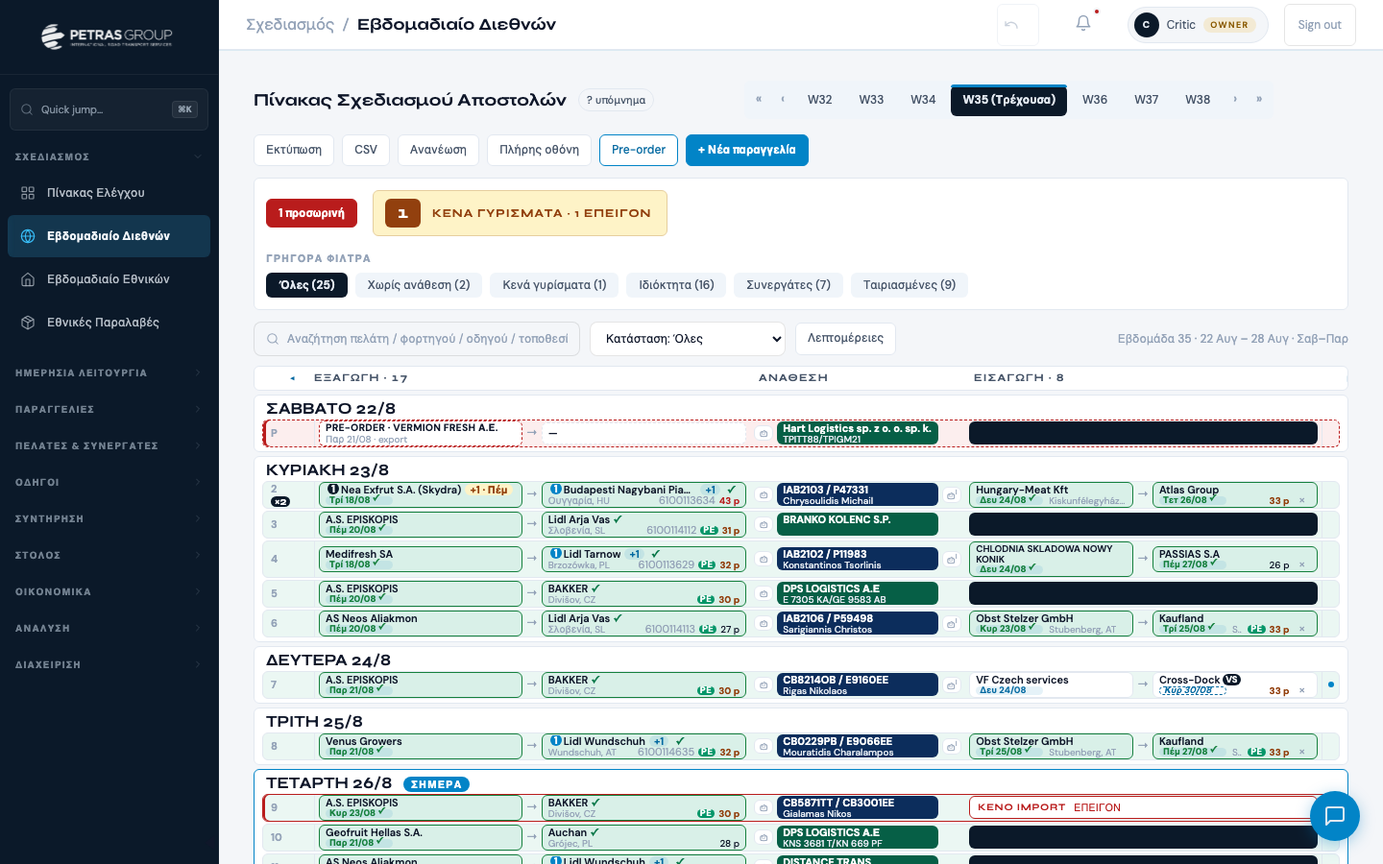
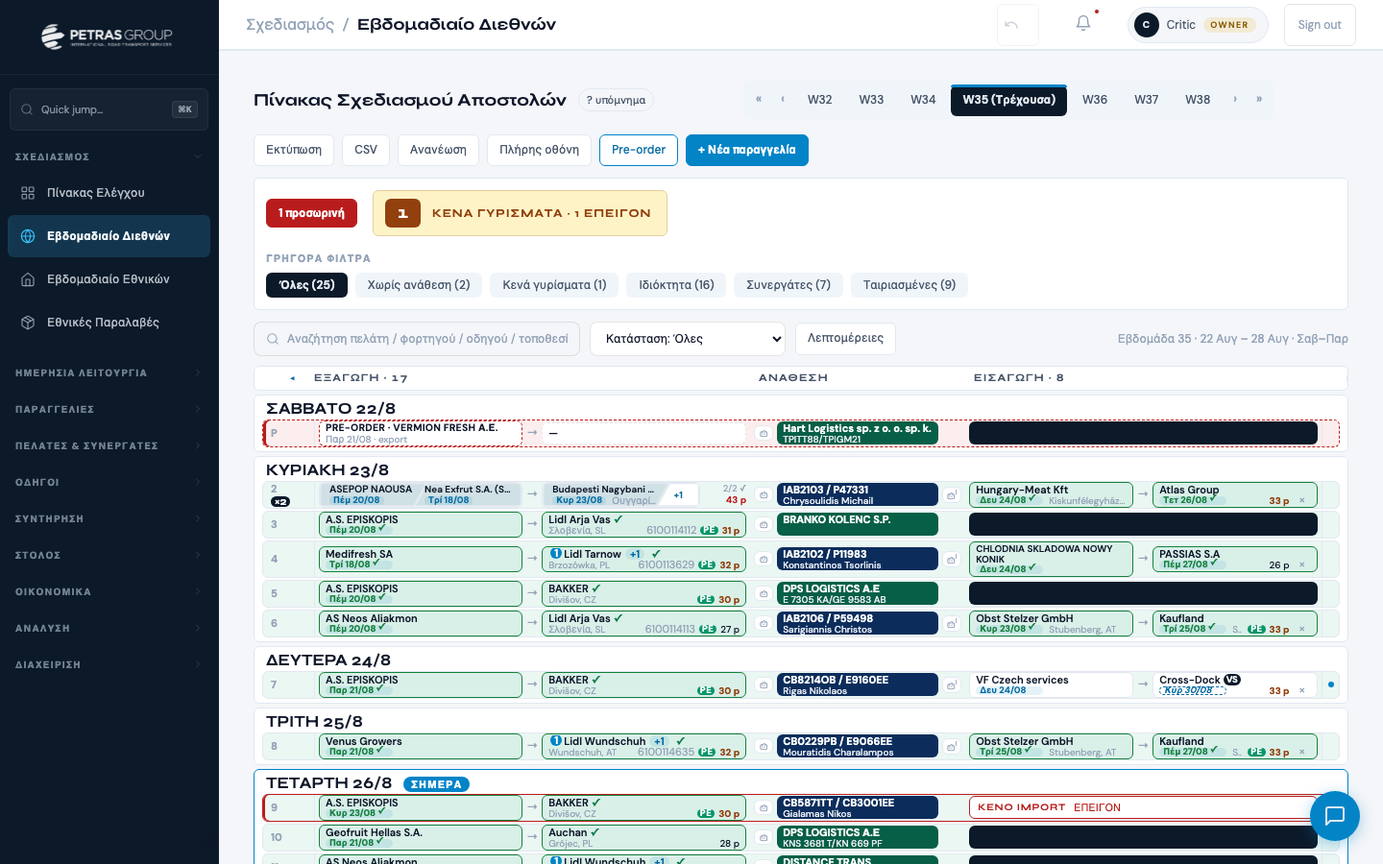
weekly_intl: groupage με πλακίδια ξανά, «σουλουπωμένα» στο κοινό πλέγμα (owner 28/9)
«Δεν θέλω να χαθεί το παλιό φορμάτ του groupage» — GROUP_TILES μένει ON,
όλες οι ενέργειες τμήματος ζωντανές (αφαίρεση μέλους, σύρσιμο ταιριασμένης
ομάδας, αναδιάταξη). Αλλαγές:
- style.css: αφαιρέθηκαν τα ελάχιστα πλάτη .wk3-tiled και το ξεχωριστό
  grid-template της γραμμής (:has) — το πλακάτ ζει στο ίδιο κελί/πλάτος.
- Τμήμα 25px, γράμματα παραλλαγής A (11/12, 10/11, πλακίδια 9.5), όνομα
  χωρίς αναδίπλωση («…» + title), σύνολα στενά («2 στ.» / «N p» κάτω δεξιά).
- _wi2FitSegs: όσα τμήματα δεν χωρούν (<90px) → τμήμα «+N»· κλικ ανοίγει την
  ομάδα σε όλο το μέγεθος (και τα κρυμμένα με τις ενέργειές τους), «−» κλείνει.
- Η απλή κάρτα ομάδας (config off) και ό,τι έγραψα γι' αυτήν αποσύρθηκαν.
Rig: 7 τύποι γραμμής, ίδιο x ανά στήλη σε 1920/1440/1280, ×N 29px· +N ανοίγει
(29→54px) και κλείνει· δεξί κλικ σε κρυμμένο μέλος → «Ακύρωση groupage»·
σύρσιμο → PATCH Group ID με νέα σειρά· αφαίρεση → PATCH Group ID "".

diff --git a/modules/weekly_intl.js b/modules/weekly_intl.js
@@ -77,6 +77,7 @@ function _wiApplyFilter() {
   // re-run it now that some may be visible again, or they would show every
   // stop plus «+N» and get cut mid-name by the line's ellipsis.
   _wi2FitStops();
+  _wi2FitSegs();
 }
 // Quick filters of the v2 band. «Χωρίς ανάθεση» = neither own truck nor partner
 // (DECISION_LOG 2/9). «Κενά» = own round trip without import — a partner row is
@@ -1327,27 +1328,22 @@ function _wiImpRowHTML(row,impNo){
   // Draggable=true (item 2): GI groups reorder the same way GRP groups do
   // (_wiSegDrop/_wiSaveSegOrder generalized on row.type — see their comments).
   const segOn=_wiSegOn()&&row.orderIds.length>1;
-  const members=row.orderIds.length>1?_wiGrpOrder(row.orderIds.map(id=>data.imports.find(r=>r.id===id)).filter(Boolean),'Loading DateTime'):null;
-  // Flag off (28/9): every member in ONE card per side, like a multi-stop order.
-  const iG=(!segOn&&members&&members.length>1)?members:null;
-  const iGL=iG?iG.map(e=>_wiGrpPt(e,'L')):null, iGD=iG?iG.map(e=>_wiGrpPt(e,'D')):null;
-  const gFrom=iG?iGL.map(x=>x.n).join(', '):fromStr, gTo=iG?iGD.map(x=>x.n).join(', '):toStr;
+  const members=segOn?_wiGrpOrder(row.orderIds.map(id=>data.imports.find(r=>r.id===id)).filter(Boolean),'Loading DateTime'):null;
 
-  const lo=_wi2Loc(gFrom,'Φόρτωση',iG?iGL:f._stopsL);
-  const lF=iG?_wiGrpFirst(iG,'Loading DateTime'):imp, lIso=lF.fields['Loading DateTime']||'';
+  const lo=_wi2Loc(fromStr,'Φόρτωση',f._stopsL);
+  const lIso=f['Loading DateTime']||'';
   let loadCard=segOn
     ? _wiSegPillWrap(row.id,members,'load',true,true)
-    : _wi2Card({cls:stR.loaded?'ok':'', date:_wi2Date(lF.id,'Loading DateTime',lIso,lIso?_wk3D(_wiFmt(lIso)):'—',stR.loaded?' done':'','Ημ. φόρτωσης'+(stR.loaded?' — φορτώθηκε ✓':'')), name:lo.name, sub:lo.sub, extra:_wk3MoreStops(gFrom,iG?iGL:f._stopsL,'load')});
-  const right=`<span class="wi2-flags">${_wiBadges(f)}</span>${iG?_wi2PalGroup(iG):_wi2Pal(f)}${f['Reference']?`<span class="wi2-ref" title="Κωδικός αναφοράς">${escapeHtml(String(f['Reference']))}</span>`:''}`;
+    : _wi2Card({cls:stR.loaded?'ok':'', date:_wi2Date(imp.id,'Loading DateTime',lIso,lIso?_wk3D(_wiFmt(lIso)):'—',stR.loaded?' done':'','Ημ. φόρτωσης'+(stR.loaded?' — φορτώθηκε ✓':'')), name:lo.name, sub:lo.sub, extra:_wk3MoreStops(fromStr,f._stopsL,'load')});
+  const right=`<span class="wi2-flags">${_wiBadges(f)}</span>${_wi2Pal(f)}${f['Reference']?`<span class="wi2-ref" title="Κωδικός αναφοράς">${escapeHtml(String(f['Reference']))}</span>`:''}`;
   let delCard;
   if(segOn){
     delCard=_wiSegPillWrap(row.id,members,'del',true,true,_wiSegTotalsHTML(members));
   } else if(impVS2){ const v=_wk3VsCd(f,'imp');
     delCard=_wi2Card({cls:stR.late?'late':stR.delivered?'ok':'', date:_wi2Date(imp.id,'VS CD Date',v.iso,v.iso?_wk3D(_wiFmt(v.iso+'T12:00:00')):'—',(stR.delivered?' done':'')+(stR.late?' late':'')+(v.est?' estd':''),v.est?'Εκτίμηση άφιξης CD (Delivery−1) — κλικ για πραγματική':'Ημ. άφιξης στο Cross-Dock'), name:'<span class="wi2-nw">Cross-Dock <span class="wk3-vsb">VS</span></span>', sub:'Βέροια, GR', right});
   } else {
-    const dF=iG?_wiGrpFirst(iG,'Delivery DateTime'):imp;
-    const de=_wi2Loc(gTo,'Παράδοση',iG?iGD:f._stopsD); const dIso=dF.fields['Delivery DateTime']||'';
-    delCard=_wi2Card({cls:stR.late?'late':stR.delivered?'ok':'', date:_wi2Date(dF.id,'Delivery DateTime',dIso,dIso?_wk3D(_wiFmt(dIso)):'—',(stR.delivered?' done':'')+(stR.late?' late':''),'Ημ. παράδοσης'+(stR.delivered?' — παραδόθηκε ✓':'')+(stR.late?' — ΚΑΘΥΣΤΕΡΗΣΕ':'')), name:de.name+(stR.late?'<span class="wi2-late" title="Καθυστέρησε (Delivery Performance)">! καθυστέρηση</span>':''), sub:de.sub, extra:_wk3MoreStops(gTo,iG?iGD:f._stopsD,'del'), right});
+    const de=_wi2Loc(toStr,'Παράδοση',f._stopsD); const dIso=f['Delivery DateTime']||'';
+    delCard=_wi2Card({cls:stR.late?'late':stR.delivered?'ok':'', date:_wi2Date(imp.id,'Delivery DateTime',dIso,dIso?_wk3D(_wiFmt(dIso)):'—',(stR.delivered?' done':'')+(stR.late?' late':''),'Ημ. παράδοσης'+(stR.delivered?' — παραδόθηκε ✓':'')+(stR.late?' — ΚΑΘΥΣΤΕΡΗΣΕ':'')), name:de.name+(stR.late?'<span class="wi2-late" title="Καθυστέρησε (Delivery Performance)">! καθυστέρηση</span>':''), sub:de.sub, extra:_wk3MoreStops(toStr,f._stopsD,'del'), right});
   }
   if(isPre) loadCard=_wiPreLeg(imp);
   // Right feed: VS import → national distribution from Veroia (final destination)
@@ -1360,7 +1356,7 @@ function _wiImpRowHTML(row,impNo){
     draggable="true"
     oncontextmenu="_wiImpCtx(event,${row.id})"
     ondragstart="event.stopPropagation();_wiImpDragStart(event,'${imp.id}')">
-    <div class="wk3-num imp" style="cursor:grab" title="Εισαγωγή I${impNo||''} — σύρε πάνω σε εξαγωγή για ταίριασμα">${isPre?'P':'I'+(impNo||'')}${f['Group ID']?`<span class="wk3-grpb" title="Groupage εισαγωγών · ${escapeHtml(String(f['Group ID']).split('|')[0])}">${members&&members.length>1?'×'+members.length:'G'}</span>`:''}<span class="wi-sync" id="wi-sync-${row.id}"></span></div>
+    <div class="wk3-num imp" style="cursor:grab" title="Εισαγωγή I${impNo||''} — σύρε πάνω σε εξαγωγή για ταίριασμα">${isPre?'P':'I'+(impNo||'')}${f['Group ID']?`<span class="wk3-grpb" title="Groupage εισαγωγών · ${escapeHtml(String(f['Group ID']).split('|')[0])}">${segOn?'×'+members.length:'G'}</span>`:''}<span class="wi-sync" id="wi-sync-${row.id}"></span></div>
     <div class="wk3-feed l" title="Χωρίς εθνικό σκέλος"><span class="wi2-dash">—</span></div>
     <div class="wk3-leg void${leftCls}">${leftInner}</div>
     ${row.hasSplitLegs
@@ -2037,12 +2033,13 @@ function _wi2Balance(){
       // National-leg (feed) cards are single-line: a 2-line clamp there grew
       // the whole row (measured 57px on 27/9) — they keep the visible «…» +
       // the full name in the title instead.
-      if(!fits(e)){ if(!e.closest('.wk3-feed')) e.classList.add('clamp'); e.title=e.innerText.trim(); cut++; return; }
+      if(!fits(e)){ if(!e.closest('.wk3-feed,.wk3-seg')) e.classList.add('clamp'); e.title=e.innerText.trim(); cut++; return; }
     }
     if(e.title) e.removeAttribute('title');
   });
   WINTL._clamped=cut;
   _wi2FitStops();
+  _wi2FitSegs();
 }
 let _wi2BalTimer=null;
 window.addEventListener('resize',()=>{ clearTimeout(_wi2BalTimer); _wi2BalTimer=setTimeout(_wi2Balance,150); });
@@ -2300,34 +2297,48 @@ function _wiSegHTML(o,kind,isImportSide,idx,total,rowId,draggable){
 function _wiSegTotalsHTML(list){
   const n=list.length;
   const delivered=list.filter(o=>_wk3StFlags(o.fields).delivered).length;
-  const stopsTxt=delivered>0?`${delivered}/${n} παραδόθηκαν`:`${n} στάσεις`;
-  return `<div class="wk3-segtotals">${_wi2PalGroup(list)}<span class="wk3-segstops">${stopsTxt}</span></div>`;
+  // Short on the board (28/9: the long «2/2 παραδόθηκαν» ate a tile's width
+  // on the common grid); the full words stay in the title.
+  const stopsTxt=delivered>0?`${delivered}/${n} ✓`:`${n} στ.`;
+  const stopsTitle=delivered>0?`${delivered}/${n} παραδόθηκαν`:`${n} στάσεις`;
+  return `<div class="wk3-segtotals"><span class="wk3-segstops" title="${stopsTitle}">${stopsTxt}</span>${_wi2PalGroup(list)}</div>`;
 }
+// «+N» (owner 28/9): the row keeps ONE line of tiles on the common grid —
+// _wi2FitSegs hides the tiles that do not fit and counts them here; a click
+// opens the whole group in place (all tiles, all their actions), again to close.
 function _wiSegPillWrap(rowId,list,kind,isImportSide,draggable,totalsHTML){
   const segs=list.map((o,idx)=>_wiSegHTML(o,kind,isImportSide,idx,list.length,rowId,draggable)).join('');
-  return `<div class="wk3-segwrap"><div class="wk3-segpill" data-row-id="${rowId}" data-kind="${kind}">${segs}</div>${totalsHTML||''}</div>`;
+  const more=`<div class="wk3-seg wk3-segmore off" data-pos="last" role="button" tabindex="0" title="Όλα τα μέλη της ομάδας" onkeydown="if(event.key==='Enter'){event.preventDefault();this.click()}" onclick="event.stopPropagation();_wi2SegToggle(this)" oncontextmenu="event.stopPropagation()"></div>`;
+  return `<div class="wk3-segwrap"><div class="wk3-segpill" data-row-id="${rowId}" data-kind="${kind}">${segs}${more}</div>${totalsHTML||''}</div>`;
+}
+function _wi2SegToggle(el){
+  const w=el.closest('.wk3-segwrap'); if(!w) return;
+  w.classList.toggle('open'); _wi2FitSegs();
+}
+// One line of tiles per group card: a tile narrower than ~90px shows nothing
+// readable, so the tiles that do not fit collapse into «+N» (the diagonal
+// seams overlap 12px, counted). Open = every tile, wrapped, «−» to close.
+function _wi2FitSegs(){
+  const MIN=90, SEAM=12;
+  document.querySelectorAll('#wi-rows .wk3-segpill').forEach(p=>{
+    if(!p.offsetParent) return;
+    const segs=[...p.querySelectorAll(':scope>.wk3-seg:not(.wk3-segmore)')], more=p.querySelector(':scope>.wk3-segmore');
+    if(!more) return;
+    segs.forEach(x=>x.classList.remove('off'));
+    const open=p.closest('.wk3-segwrap').classList.contains('open');
+    const fit=k=>(p.clientWidth+SEAM*(k-1))/k>=MIN;
+    let show=segs.length;
+    if(!open&&!fit(show)){ show=Math.max(1,segs.length-1); while(show>1&&!fit(show+1)) show--; }
+    const hidden=segs.length-show;
+    segs.forEach((x,i)=>x.classList.toggle('off',i>=show));
+    more.classList.toggle('off',!open&&!hidden);
+    more.textContent=open?'−':'+'+hidden;
+    more.title=open?'Κλείσιμο ομάδας':`${hidden} ακόμη μέλη — κλικ: όλη η ομάδα`;
+    // Tile names never wrap (owner 28/9): the cut one carries its full text.
+    segs.forEach(x=>{ const n=x.querySelector('.wi2-name'); if(n) n.title=n.scrollWidth>n.clientWidth+1?n.innerText.trim():''; });
+  });
 }
 
-// GRP (owner 12/8): a group line shows ONE point per MEMBER (① = 1st member…),
-// not the comma-parsing of the first member's summary — that showed San
-// Lucar's city as a fake «② destination». Synthetic {n,dt} arrays, so the
-// multi-stop fit (_wi2Loc → _wk3LocHTML: «① A ② B» / «+N», other-day chip,
-// hover/click list) renders a group exactly like a multi-stop order — one
-// card per side, on the common grid (owner 28/9). Shared by export groups
-// (GRP-), standalone import groups (GI-) and a GI- group matched into an
-// export row. Fallback WITHOUT escapeHtml — _wk3LocHTML escapes on its own.
-function _wiGrpPt(e,side){
-  const key=side==='L'?'_stopsL':'_stopsD', sumKey=side==='L'?'Loading Summary':'Delivery Summary';
-  return { n:(e.fields[key]?.[0]?.n)||String(e.fields[sumKey]||e.fields['Client Name']||'—').split(',').slice(0,2).join(',').replace(/^['"\s/]+/,'').replace(/['"\s/]+$/,'').trim(),
-    dt:e.fields[side==='L'?'Loading DateTime':'Delivery DateTime'] };
-}
-// The member whose date the card shows: the multi-stop list (_wk3Arr) orders
-// ① by date, so the card's date must be the EARLIEST member's — otherwise
-// «① A» sits next to B's date and the orange other-day chip points the
-// wrong way. Its id is also the record a click on that date edits.
-function _wiGrpFirst(recs,field){
-  return recs.reduce((a,b)=>String(b.fields[field]||'~')<String(a.fields[field]||'~')?b:a);
-}
 function _wiRowHTML(row,i){
   const {data,ui}=WINTL;
   const exps   =_wiGrpOrder(row.orderIds.map(id=>data.exports.find(r=>r.id===id)).filter(Boolean));
@@ -2343,8 +2354,15 @@ function _wiRowHTML(row,i){
   const isPre=!isGroup&&isPreorder(pf);
   const fromStr=primary?_wiRaw(pf['Loading Summary']||_wiFlatLocName(pf['Loading Location 1'])||_wiClientName(pf)||'—'):'—';
   const toStr  =primary?_wiRaw(pf['Delivery Summary']||_wiFlatLocName(pf['Unloading Location 1'])||_wiClientName(pf)||'—'):'—';
-  const gL=isGroup?exps.map(e=>_wiGrpPt(e,'L')):null;
-  const gD=isGroup?exps.map(e=>_wiGrpPt(e,'D')):null;
+  // GRP (owner 12/8): η γραμμή δείχνει ΕΝΑ σημείο ανά ΜΕΛΟΣ (①=1ο μέλος κ.ο.κ.),
+  // όχι το comma-parsing του summary του πρώτου — αυτό εμφάνιζε την πόλη του
+  // San Lucar ως ψεύτικο «② προορισμό». Συνθετικά arrays {n,dt} ώστε τα ①②,
+  // η συντομογραφία 3+ και το ίδια-μέρα-δίπλα να δουλέψουν με την υπάρχουσα λογική.
+  // Fallback ΧΩΡΙΣ escapeHtml — το _wk3LocHTML κάνει το δικό του escape.
+  const _gm1=(e,key,sumKey)=>({ n:(e.fields[key]?.[0]?.n)||String(e.fields[sumKey]||e.fields['Client Name']||'—').split(',').slice(0,2).join(',').replace(/^['"\s/]+/,'').replace(/['"\s/]+$/,'').trim(),
+    dt:e.fields[sumKey==='Loading Summary'?'Loading DateTime':'Delivery DateTime'] });
+  const gL=isGroup?exps.map(e=>_gm1(e,'_stopsL','Loading Summary')):null;
+  const gD=isGroup?exps.map(e=>_gm1(e,'_stopsD','Delivery Summary')):null;
   const gLs=gL?gL.map(x=>x.n).join(', '):'';
   const gDs=gD?gD.map(x=>x.n).join(', '):'';
   const refs=isGroup?exps.map(e=>e.fields['Reference']).filter(Boolean).join(' · '):(pf['Reference']||'');
@@ -2399,8 +2417,7 @@ function _wiRowHTML(row,i){
     loadCard=_wi2Card({cls:stF.loaded?'ok':'', date:_wi2Date(pid,'VS CD Date',v.iso,v.iso?_wk3D(_wiFmt(v.iso+'T12:00:00')):'—',(stF.loaded?' done':'')+(v.est?' estd':''),v.est?'Εκτίμηση (Loading+1) — κλικ για πραγματική ημερομηνία CD':'Ημ. φόρτωσης από Cross-Dock'), name:'<span class="wi2-nw">Cross-Dock <span class="wk3-vsb">VS</span></span>', sub:'Βέροια, GR'});
   } else {
     const lo=_wi2Loc(isGroup?gLs:fromStr,'Φόρτωση',isGroup?gL:pf._stopsL);
-    const gF=isGroup?_wiGrpFirst(exps,'Loading DateTime'):primary, gIso=isGroup?(gF.fields['Loading DateTime']||''):loadIso;
-    loadCard=_wi2Card({cls:stF.loaded?'ok':'', date:_wi2Date(isGroup?gF.id:pid,'Loading DateTime',gIso,gIso?_wk3D(_wiFmt(gIso)):'—',stF.loaded?' done':'','Ημερομηνία φόρτωσης'+(stF.loaded?' — φορτώθηκε ✓':'')), name:lo.name, sub:lo.sub, extra:_wk3MoreStops(isGroup?gLs:fromStr,isGroup?gL:pf._stopsL,'load')});
+    loadCard=_wi2Card({cls:stF.loaded?'ok':'', date:_wi2Date(pid,'Loading DateTime',loadIso,loadIso?_wk3D(_wiFmt(loadIso)):'—',stF.loaded?' done':'','Ημερομηνία φόρτωσης'+(stF.loaded?' — φορτώθηκε ✓':'')), name:lo.name, sub:lo.sub, extra:_wk3MoreStops(isGroup?gLs:fromStr,isGroup?gL:pf._stopsL,'load')});
   }
   const de=_wi2Loc(isGroup?gDs:toStr,'Παράδοση',isGroup?gD:pf._stopsD);
   const members=(isGroup&&ui.openGroup===row.id)?exps.map((m,k)=>{const mf=m.fields;
@@ -2436,9 +2453,7 @@ function _wiRowHTML(row,i){
   // its orderId, not re-derived) so its orderIds is the authoritative member
   // list — gated behind _wiSegOn() so a flag-off board never does this lookup
   // (byte parity with the pre-existing single-card path below).
-  // Looked up with the tiles flag OFF too (28/9): the single-card path below
-  // needs the members for its «① A ② B» names and group pallets.
-  const impGroupRow=row.importId?WINTL.rows.find(r=>r.type==='import'&&r.orderId===row.importId):null;
+  const impGroupRow=(_wiSegOn()&&row.importId)?WINTL.rows.find(r=>r.type==='import'&&r.orderId===row.importId):null;
   // Item 1 (owner 8/9): ordered by _wiGrpOrder (GI- suffix, else Loading
   // DateTime) — NOT impGroupRow.orderIds' raw insertion order — so a drag
   // reorder done from EITHER this pill or the standalone GI- row (they write
@@ -2446,7 +2461,7 @@ function _wiRowHTML(row,i){
   const impMembers=(impGroupRow&&impGroupRow.orderIds&&impGroupRow.orderIds.length>1)
     ?_wiGrpOrder(impGroupRow.orderIds.map(id=>data.imports.find(r=>r.id===id)).filter(Boolean),'Loading DateTime'):null;
   let impInner;
-  if(_wiSegOn()&&impMembers&&impMembers.length>1){
+  if(impMembers&&impMembers.length>1){
     // Reuse the SAME segment renderer the standalone GI- row uses, with
     // impGroupRow.id (NOT this export row's id) as the segment rowId — click/
     // right-click/assign-panel/drag-drop (_wiSegCtx, _wiCancelGroupMember,
@@ -2486,27 +2501,22 @@ function _wiRowHTML(row,i){
     impInner=`${gLoad}<span class="wi2-arrow">→</span>${gDel}`;
   } else if(imp){
     const f2=imp.fields;
-    const iG=(impMembers&&impMembers.length>1)?impMembers:null;
-    const iGL=iG?iG.map(e=>_wiGrpPt(e,'L')):null, iGD=iG?iG.map(e=>_wiGrpPt(e,'D')):null;
-    const iLs=iG?iGL.map(x=>x.n).join(', '):(f2['Loading Summary']||_wiFlatLocName(f2['Loading Location 1'])||_wiClientName(f2)||'—');
-    const il=_wi2Loc(iLs,'Φόρτωση',iG?iGL:f2._stopsL);
-    const iLF=iG?_wiGrpFirst(iG,'Loading DateTime'):imp, ilIso=iLF.fields['Loading DateTime']||'';
-    const iload=_wi2Card({cls:stI.loaded?'ok':'', date:_wi2Date(iLF.id,'Loading DateTime',ilIso,ilIso?_wk3D(_wiFmt(ilIso)):'—',stI.loaded?' done':'','Ημ. φόρτωσης εισαγωγής'+(stI.loaded?' — φορτώθηκε ✓':'')), name:il.name, sub:il.sub, extra:_wk3MoreStops(iG?iLs:(f2['Loading Summary']||''),iG?iGL:f2._stopsL,'load')});
+    const il=_wi2Loc(f2['Loading Summary']||_wiFlatLocName(f2['Loading Location 1'])||_wiClientName(f2)||'—','Φόρτωση',f2._stopsL);
+    const ilIso=f2['Loading DateTime']||'';
+    const iload=_wi2Card({cls:stI.loaded?'ok':'', date:_wi2Date(imp.id,'Loading DateTime',ilIso,ilIso?_wk3D(_wiFmt(ilIso)):'—',stI.loaded?' done':'','Ημ. φόρτωσης εισαγωγής'+(stI.loaded?' — φορτώθηκε ✓':'')), name:il.name, sub:il.sub, extra:_wk3MoreStops(f2['Loading Summary']||'',f2._stopsL,'load')});
     // ΙΔΙΑ ΘΕΣΗ ΜΕ ΤΗΝ ΕΞΑΓΩΓΗ (owner 3/9): οι παλέτες και τα σήματα έμπαιναν
     // εδώ στη ΔΕΥΤΕΡΗ ΣΕΙΡΑ, κάτω από το όνομα, ενώ στην εξαγωγή μπαίνουν στη
     // δεξιά θυρίδα — δύο ιδιώματα για το ίδιο πράγμα στην ίδια γραμμή. Και
     // επειδή μοιράζονταν τη σειρά με την πόλη, η πόλη στριμωχνόταν πίσω από
     // «PE · 33 p». Τώρα: δεξιά οι παλέτες, η δεύτερη σειρά μένει της πόλης.
-    const iright=`<span class="wi2-flags">${_wiBadges(f2)}</span>${iG?_wi2PalGroup(iG):_wi2Pal(f2)}<button class="wk3-unm" title="Αφαίρεση ταιριάσματος${iG?' (όλη η ομάδα)':''}" onclick="event.stopPropagation();${iG?`_wiRemoveImport(${row.id})`:`_wiUnmatch('${imp.id}')`}">×</button>`;
+    const iright=`<span class="wi2-flags">${_wiBadges(f2)}</span>${_wi2Pal(f2)}<button class="wk3-unm" title="Αφαίρεση ταιριάσματος" onclick="event.stopPropagation();_wiUnmatch('${imp.id}')">×</button>`;
     let idel;
     if(impVS){ const v=_wk3VsCd(f2,'imp');
       // Matched preview is the narrow column: «Cross-Dock VS» on one line, no city (the badge says it)
       idel=_wi2Card({cls:stI.late?'late':stI.delivered?'ok':'', date:_wi2Date(imp.id,'VS CD Date',v.iso,v.iso?_wk3D(_wiFmt(v.iso+'T12:00:00')):'—',(stI.delivered?' done':'')+(stI.late?' late':'')+(v.est?' estd':''),v.est?'Εκτίμηση άφιξης CD (Delivery−1) — κλικ για πραγματική':'Ημ. άφιξης στο Cross-Dock'), name:'<span class="wi2-nw">Cross-Dock <span class="wk3-vsb">VS</span></span>', sub:'', title:'Cross-Dock Βέροια', right:iright});
     } else {
-      const iDs=iG?iGD.map(x=>x.n).join(', '):(f2['Delivery Summary']||_wiFlatLocName(f2['Unloading Location 1'])||_wiClientName(f2)||'—');
-      const iDF=iG?_wiGrpFirst(iG,'Delivery DateTime'):imp;
-      const id2=_wi2Loc(iDs,'Παράδοση',iG?iGD:f2._stopsD); const idIso=iDF.fields['Delivery DateTime']||'';
-      idel=_wi2Card({cls:stI.late?'late':stI.delivered?'ok':'', date:_wi2Date(iDF.id,'Delivery DateTime',idIso,idIso?_wk3D(_wiFmt(idIso)):'—',(stI.delivered?' done':'')+(stI.late?' late':''),'Ημ. παράδοσης εισαγωγής'+(stI.delivered?' — παραδόθηκε ✓':'')+(stI.late?' — ΚΑΘΥΣΤΕΡΗΣΕ':'')), name:id2.name+(stI.late?'<span class="wi2-late">! καθυστέρηση</span>':''), sub:id2.sub, extra:_wk3MoreStops(iG?iDs:(f2['Delivery Summary']||''),iG?iGD:f2._stopsD,'del'), right:iright});
+      const id2=_wi2Loc(f2['Delivery Summary']||_wiFlatLocName(f2['Unloading Location 1'])||_wiClientName(f2)||'—','Παράδοση',f2._stopsD); const idIso=f2['Delivery DateTime']||'';
+      idel=_wi2Card({cls:stI.late?'late':stI.delivered?'ok':'', date:_wi2Date(imp.id,'Delivery DateTime',idIso,idIso?_wk3D(_wiFmt(idIso)):'—',(stI.delivered?' done':'')+(stI.late?' late':''),'Ημ. παράδοσης εισαγωγής'+(stI.delivered?' — παραδόθηκε ✓':'')+(stI.late?' — ΚΑΘΥΣΤΕΡΗΣΕ':'')), name:id2.name+(stI.late?'<span class="wi2-late">! καθυστέρηση</span>':''), sub:id2.sub, extra:_wk3MoreStops(f2['Delivery Summary']||'',f2._stopsD,'del'), right:iright});
     }
     impInner=isPreorder(f2)
       ? _wiPreLeg(imp,`<button class="wk3-unm" title="Αφαίρεση ταιριάσματος" onclick="event.stopPropagation();_wiUnmatch('${imp.id}')">×</button>`)
@@ -5623,6 +5633,7 @@ window._wiSaveLocal = _wiSaveLocal;
 window._wiDelLocal = _wiDelLocal;
 window._wiLmvCtx = _wiLmvCtx;
 window._wiSegCtx = _wiSegCtx;
+window._wi2SegToggle = _wi2SegToggle;   // «+N» tile (inline onclick)
 window._wiCancelGroupMember = _wiCancelGroupMember;
 window._wiSegDragStart = _wiSegDragStart;
 window._wiSegDragOver = _wiSegDragOver;

diff --git a/assets/style.css b/assets/style.css
@@ -7322,8 +7322,8 @@ button.btn-icon:focus-visible { outline:2px solid var(--accent); outline-offset:
 .wk3-segpill{flex:1 1 0;min-width:0;display:flex;border:1px solid var(--border);
   border-radius:var(--radius);overflow:hidden;background:var(--surface-card)}
 .wk3-seg{position:relative;flex:1 1 0;min-width:0;box-sizing:border-box;
-  display:flex;flex-direction:column;justify-content:center;min-height:36px;
-  padding:3px 10px;background:var(--border);--seg-bg:var(--surface-card);cursor:pointer;
+  display:flex;flex-direction:column;justify-content:center;min-height:25px;
+  padding:0 10px;background:var(--border);--seg-bg:var(--surface-card);cursor:pointer;
   isolation:isolate;
   transition:transform var(--duration-fast) var(--ease-out),box-shadow var(--duration-fast) var(--ease-out);}
 /* Διαγώνιο κόψιμο (spec): άκρα στρογγυλά (το κλείνει το overflow:hidden του
@@ -7363,58 +7363,37 @@ button.btn-icon:focus-visible { outline:2px solid var(--accent); outline-offset:
 .wk3-seg.late{--seg-bg:var(--danger-bg)}
 .wk3-seg.dragging{opacity:.4}
 .wk3-seg.dragover{outline:2px dashed var(--accent);outline-offset:-2px}
-.wk3-segtop{display:flex;align-items:center;gap:6px;font-size:11px}
-/* Πυκνότερη γραμματοσειρά ΜΕΣΑ στο τμήμα — οι κοινές .wi2-name/.wi2-sub/.wi2-date
-   (μοιρασμένες με τη μονή κάρτα, 13/11/11px) δεν χωρούν σε τμήμα πλάτους
-   ~100-130px· scope εδώ, όχι στις κοινές κλάσεις, ώστε η μονή κάρτα να μείνει
-   ανέγγιχτη. Νούμερα: spec 2026-09-08 v2 §Segment content. */
-.wk3-seg .wi2-name{font-size:10px;line-height:13px;font-weight:600}
-.wk3-seg .wi2-sub{font-size:9px}
-.wk3-seg .wi2-date{font-size:9px;padding:0 5px;min-width:0;height:16px;line-height:16px;
+.wk3-segtop{display:flex;align-items:center;gap:6px;font-size:10px;height:11px;line-height:11px}
+/* Κλίμακα της μονής κάρτας (owner 28/9, παραλλαγή A: όνομα 11/12, 2η σειρά
+   10/11, πλακίδια 9.5) — ίδια γράμματα σε ομάδα και σε μονή παραγγελία, ώστε
+   η γραμμή να μένει 29px. Το όνομα ΔΕΝ αναδιπλώνεται: «…» + title. */
+.wk3-seg .wi2-name{font-size:11px;line-height:12px;font-weight:600;white-space:nowrap;overflow:hidden;text-overflow:ellipsis}
+.wk3-seg .wi2-sub{font-size:10px}
+.wk3-seg .wi2-date{font-size:9.5px;padding:0 4px;min-width:0;height:auto;line-height:9.5px;
   border-radius:var(--radius-sm);box-sizing:border-box}
-.wk3-segtop .wi2-name{font-size:9px}
-.wk3-segtop .wi2-pal{font-size:9px}
-/* Σύνολα δεξιά της παράδοσης (owner review 8/9 v2 — item γ): σταθερό κουτί
-   ΕΚΤΟΣ του μεριδίου πλάτους του ίδιου του πλακάτ (βλ. .wk3-tiled παρακάτω) —
-   πριν μοιραζόταν flex:1 1 0 με το .wk3-segpill μέσα στο ίδιο .wk3-segwrap και
-   το στρίμωχνε ίσα με το πλάτος των συνόλων. */
-.wk3-segtotals{flex:0 0 64px;width:64px;box-sizing:border-box;display:flex;
-  flex-direction:column;align-items:center;justify-content:center;gap:1px;text-align:center}
-.wk3-segtotals .wi2-pal{font-size:12px;font-weight:700;line-height:1.15}
-.wk3-segstops{font-size:9px;color:var(--text-dim);line-height:1.15;white-space:nowrap}
-/* Πλάτη πλακάτ (owner review 8/9 v2 — item α): η _wi2Balance() του module
-   μοιράζει sL/sR μετρώντας .wi2-name/.wi2-meta ως ΑΜΕΣΑ παιδιά του .wk3-leg —
-   το .wk3-segwrap δεν έχει τέτοια (είναι δύο επίπεδα πιο μέσα), άρα η μέτρηση
-   επιστρέφει 0 και οι σειρές με segments κληρονομούσαν έναν λόγο υπολογισμένο
-   ΑΠΟ ΑΛΛΕΣ (μονές) γραμμές — τυχαίος για ένα πλακάτ με σύνολα δεξιά. Δικό
-   της grid-template ΜΟΝΟ όταν το JS προσθέσει .wk3-tiled (μόνο όταν segOn —
-   άρα ΠΟΤΕ με κλειστή σημαία, βλ. modules/weekly_intl.js). Ειδικότητα 4-5
-   κλάσεων ώστε να νικά το `.wk3.wi2 .wk3-leg` (inline <style> του module,
-   3 κλάσεις) όποια κι αν είναι η σειρά στο DOM. Νούμερα: spec §Widths —
-   238/262 (3+ μέλη, βλ. compact στο _wiSegHTML) · 230/250 (2 μέλη), με +8px
-   κενό +64px σύνολα προστιθέμενα στο δεξί (παράδοση). */
-.wk3.wi2 .wk3-leg.wk3-tiled{grid-template-columns:minmax(238px,1fr) auto minmax(334px,1fr)}
-.wk3.wi2 .wk3-leg.wk3-tiled[data-seg-n="2"]{grid-template-columns:minmax(230px,1fr) auto minmax(322px,1fr)}
-/* Η ΓΡΑΜΜΗ (.wk3-row) είναι ΚΙ ΑΥΤΗ grid (module's own <style>, γρ. 245:
-   `minmax(0,1.1fr)`/`minmax(0,0.9fr)` για τα δύο .wk3-leg) — min 0 σημαίνει
-   ότι ο browser ΔΕΝ φουσκώνει το track για να χωρέσει το παιδί, άρα το πλάτος
-   που μόλις κλειδώσαμε παραπάνω (238-334/230-322) περίσσευε από το πλάτος
-   που της έδινε η σειρά και το `.wk3-leg{overflow:hidden}` το έκοβε σιωπηλά —
-   ΤΑ ΣΥΝΟΛΑ δεξιά της παράδοσης εξαφανίζονταν εντελώς, αόρατο bug που δεν θα
-   φαινόταν παρά μόνο μετρώντας rects (βρέθηκε με Playwright evaluate, όχι με
-   screenshot). Ίδιο 36px/240px/var(--fL)/var(--fR) με το γρ. 245 ΕΠΙΤΗΔΕΣ
-   (var() λύνεται στην τιμή που έχει ΤΩΡΑ η μεταβλητή — αν αλλάξει εκεί, θα
-   αλλάξει και εδώ)· μόνο τα δύο minmax ελάχιστα ανεβαίνουν, και ΜΟΝΟ σε
-   γραμμή που όντως περιέχει .wk3-tiled. ΔΕΝ καλύπτει το media query
-   max-width:1360px (γρ. 443) — άλλη στήλωση, εκτός εύρους της συγκεκριμένης
-   αναθεώρησης (οθόνες ελέγχθηκαν στα 1440px). Το track παρακάτω δίνει το
-   ΠΕΡΙΘΩΡΙΟ (border-box) του ίδιου του .wk3-leg — για να χωρέσουν τα τρία
-   tracks από πάνω (238-334/230-322) πρέπει να προστεθεί ΚΑΙ το gap:4px×2
-   ΚΑΙ το padding:0 4px×2 του .wk3-leg (γρ. 315, wi2 mode) — 8+8=16px, αλλιώς
-   ξανακόβεται σιωπηλά (επαληθεύτηκε με rects, όχι με μάτι — βλ. σχόλιο πιο
-   πάνω): 238+12(βέλος)+334+16=600 (3+ μέλη) · 230+12+322+16=580 (2 μέλη). */
-.wk3.wi2 .wk3-row:has(.wk3-leg.wk3-tiled){grid-template-columns:36px var(--fL) minmax(600px,1.1fr) 240px minmax(600px,0.9fr) var(--fR)}
-.wk3.wi2 .wk3-row:has(.wk3-leg.wk3-tiled[data-seg-n="2"]){grid-template-columns:36px var(--fL) minmax(580px,1.1fr) 240px minmax(580px,0.9fr) var(--fR)}
+.wk3-segtop .wi2-name{font-size:10px}
+.wk3-segtop .wi2-pal{font-size:9.5px}
+.wk3-seg.off{display:none}
+.wk3-segmore{flex:0 0 auto;min-width:44px;align-items:center;font:700 10px 'DM Sans',sans-serif;color:var(--accent-text)}
+.wk3-segmore.off{display:none}
+.wk3-segwrap.open .wk3-segpill{flex-wrap:wrap}
+.wk3-segwrap.open .wk3-seg{flex:1 1 90px}
+/* Σύνολα δεξιά της παράδοσης (owner review 8/9 v2 — item γ): κουτί ΕΚΤΟΣ του
+   πλακάτ, ώστε να μην το στριμώχνει. 28/9: στενό κουτί με το «N p» κάτω δεξιά,
+   στη θέση που έχουν οι παλέτες στη μονή κάρτα, και τις στάσεις από πάνω. */
+.wk3-segtotals{flex:0 0 auto;min-width:40px;box-sizing:border-box;display:flex;
+  flex-direction:column;align-items:flex-end;justify-content:center;gap:1px;text-align:right}
+.wk3-segtotals .wi2-pal{font-size:10px;font-weight:700;line-height:11px}
+.wk3-segstops{font-size:9.5px;color:var(--text-dim);line-height:10px;white-space:nowrap}
+/* ΠΛΑΚΑΤ ΣΤΟ ΚΟΙΝΟ ΠΛΕΓΜΑ (owner 28/9: «να σουλουπωθεί στα νέα δεδομένα»).
+   Μέχρι τις 28/9 ένα .wk3-tiled σκέλος είχε δικά του ελάχιστα πλάτη
+   (238-334px) και η γραμμή του δικό της grid-template (σκέλη 580-600px) — η
+   ανάθεση και η εισαγωγή μιας ομάδας ξεκινούσαν 72-136px δεξιότερα από κάθε
+   άλλη γραμμή. Οι κανόνες αυτοί αφαιρέθηκαν: το πλακάτ ζει στο ίδιο κελί, με
+   το ίδιο πλάτος, όπως η μονή κάρτα. Όσα τμήματα δεν χωρούν σε μία σειρά
+   (ελάχιστο ~90px το καθένα) μαζεύονται σε ένα τμήμα «+N» που ανοίγει την
+   ομάδα σε όλο της το μέγεθος (weekly_intl.js _wi2FitSegs) — κάθε ενέργεια
+   τμήματος (δεξί κλικ, σύρσιμο, αφαίρεση μέλους) μένει προσβάσιμη. */
 /* Item 2 tooltip: πελάτης, αναφορά, παλέτες, ημέρα/ώρα — CSS-only hover. */
 .wk3-segtip{display:none;position:absolute;left:0;top:100%;margin-top:6px;z-index:20;
   min-width:170px;max-width:240px;background:var(--surface-dark);color:var(--text-on-dark);

diff --git a/config.js b/config.js
@@ -351,10 +351,6 @@ const PERMS = {
 // deployed — without them the facade would silently drop the two fields and
 // leave orphan legs. Flip to true only after both, then bump ?v= in app.html.
 // GROUP_TILES (owner 8/9/2026, spec docs/design/2026-09-08-groupage-tiles.md):
-// segmented single-pill groupage on Weekly International. OFF since 28/9
-// (owner: «διόρθωσε και το groupage»): the tiles needed their own wider grid
-// (style.css .wk3-row:has(.wk3-tiled) → 580-600px legs), so a grouped row's
-// ASSIGNMENT and IMPORT cells started 72-136px right of every other row. With
-// the flag off a group renders like a multi-stop order — ONE card per side,
-// «① A ② B» / «+N» (_wiGrpPt + _wi2Loc) — on the common grid.
-const FEATURES = { ORDER_SPLIT: true, GROUP_TILES: false };
+// segmented single-pill groupage on Weekly International. Off = today's board
+// renders byte-for-byte unchanged. Flip to true only after live verification.
+const FEATURES = { ORDER_SPLIT: true, GROUP_TILES: true };
